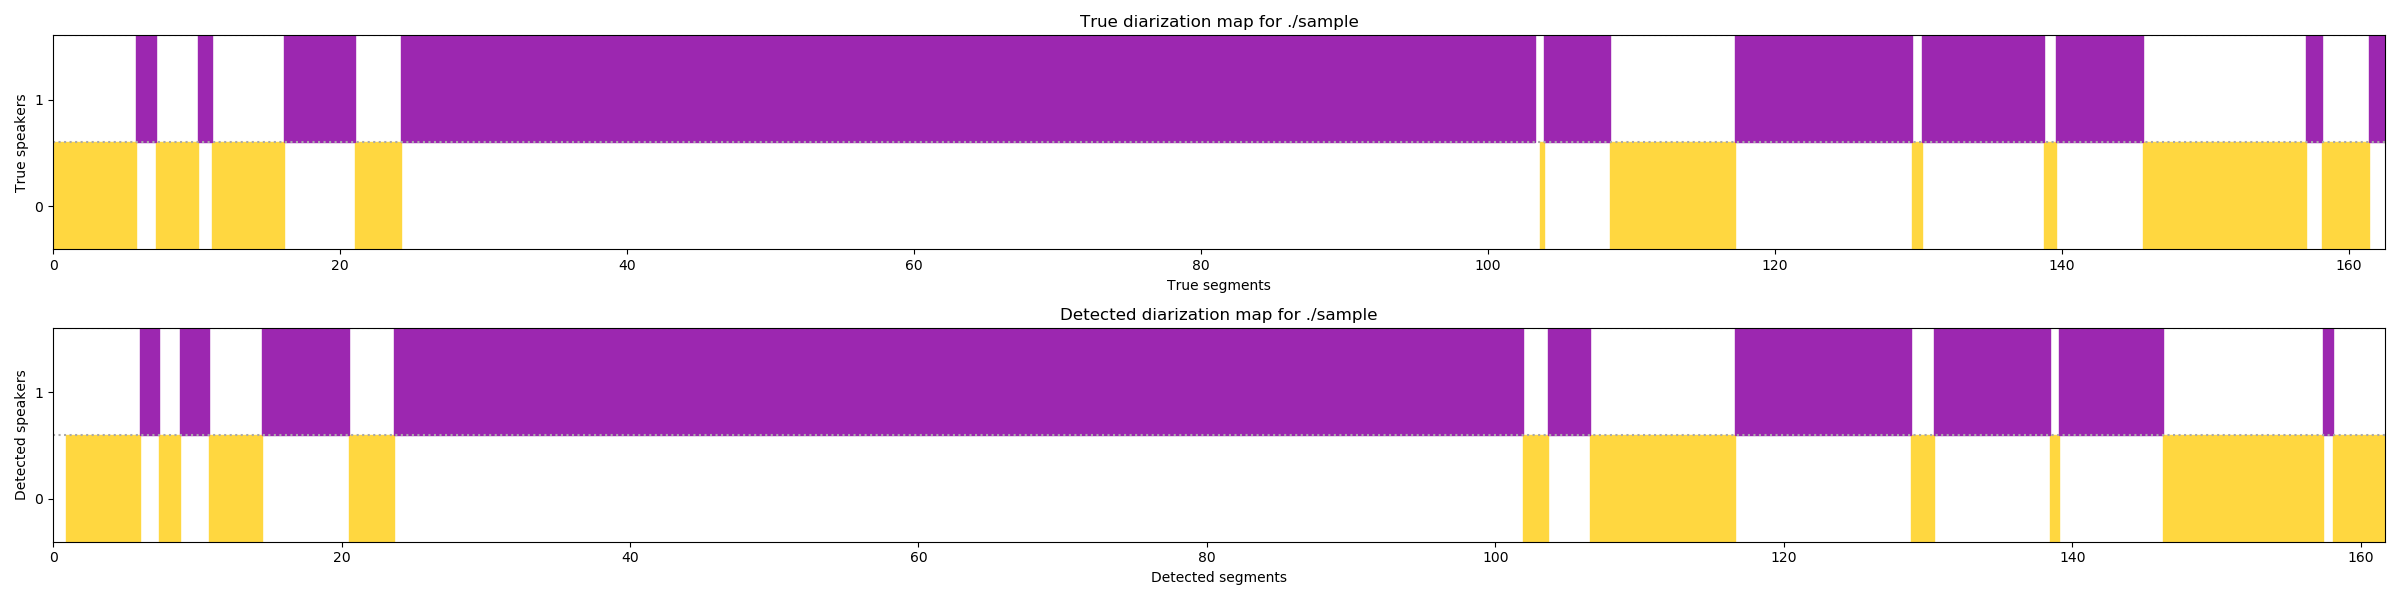
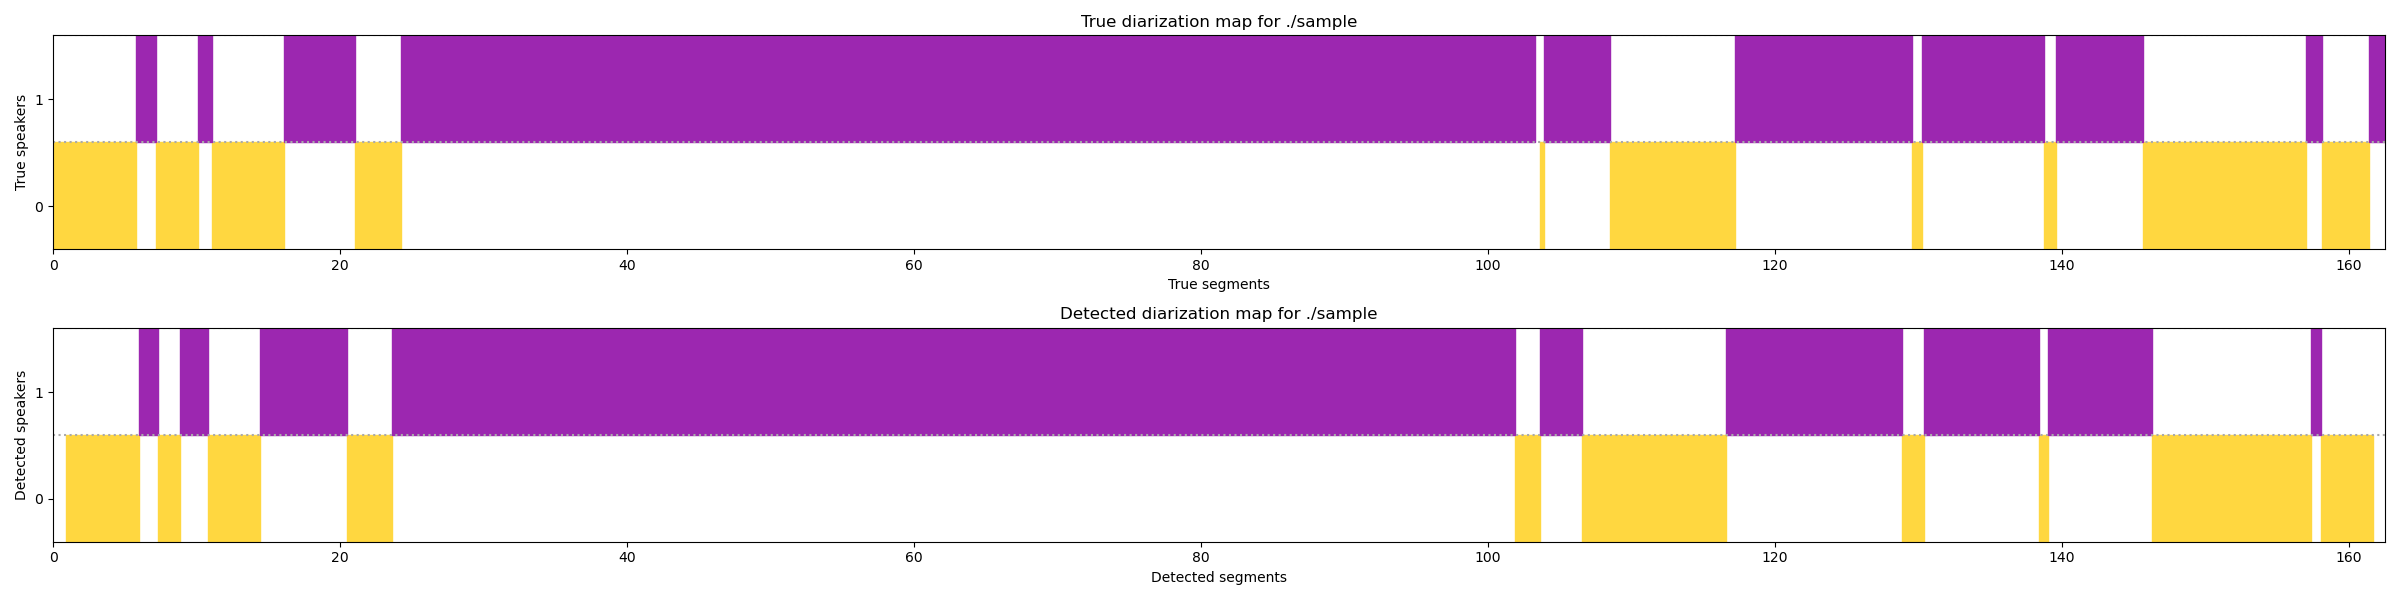
Small reworks

diff --git a/embedding/new_utils.py b/embedding/new_utils.py
@@ -55,6 +55,20 @@ def _beautify_time(time_in_milliseconds):
     return time
 
 
+def _gen_map(intervals):  # interval slices to map table
+    slice_len = [sliced[1] - sliced[0] for sliced in intervals.tolist()]
+    map_table = {}  # vad erased time to origin time, only split points
+    idx = 0
+
+    for i, sliced in enumerate(intervals.tolist()):
+        map_table[idx] = sliced[0]
+        idx += slice_len[i]
+
+    map_table[sum(slice_len)] = intervals[-1, -1]
+
+    return map_table
+
+
 def _path_to_audio(audio_folder):
     for file in os.listdir(audio_folder):
         if file.endswith('.wav'):
@@ -80,23 +94,6 @@ def der(ground_truth_map, result_map):
     der = simpleder.DER(ground_truth_map, result_map)
 
     return round(der, 5)
-
-
-def gen_map(intervals):  # interval slices to map table
-    slice_len = [sliced[1] - sliced[0] for sliced in intervals.tolist()]
-    map_table = {}  # vad erased time to origin time, only split points
-    idx = 0
-
-    for i, sliced in enumerate(intervals.tolist()):
-        map_table[idx] = sliced[0]
-        idx += slice_len[i]
-
-    map_table[sum(slice_len)] = intervals[-1, -1]
-
-    keys = [k for k, _ in map_table.items()]
-    keys.sort()
-
-    return map_table, keys
 
 
 def generate_embeddings(model, specs):
@@ -150,10 +147,13 @@ def ground_truth_map(audio_folder):
     return ground_truth_map
 
 
-def result_map(map_table, keys, predicted_labels):
+def result_map(intervals, predicted_labels):
     time_spec_rate = 1000 * (1.0 / consts.slide_window_params.embedding_per_second) * (
             1.0 - consts.slide_window_params.overlap_rate)  # speaker embedding every ?ms
     speaker_slice = _arrange_result(predicted_labels, time_spec_rate)
+
+    map_table = _gen_map(intervals)
+    keys = [*map_table]
 
     # Time map to origin wav (contains mute)
     for speaker, timestamps_list in speaker_slice.items():

diff --git a/diarization.py b/diarization.py
@@ -31,9 +31,8 @@ predicted_labels = cluster_utils.cluster_by_hdbscan(embeddings)
 # Step 8. Read real segments from file.
 ground_truth_map = new_utils.ground_truth_map(consts.audio_folder)
 
-# Step 9. Get result timestamps.
-map_table, keys = new_utils.gen_map(intervals)
-result_map = new_utils.result_map(map_table, keys, predicted_labels)
+# Step 9. Get result segments.
+result_map = new_utils.result_map(intervals, predicted_labels)
 
 # Step 10. Get DER (diarization error rate).
 der = new_utils.der(ground_truth_map, result_map)

diff --git a/embedding/consts.py b/embedding/consts.py
@@ -40,7 +40,7 @@ nn_params.input_dim = (257, None, 1)
 nn_params.num_classes = 5994
 
 nn_params.mode = 'eval'  # 'train'
-nn_params.gpu = '0'
+nn_params.gpu = ''
 nn_params.net = 'resnet34s'  # 'resnet34s' or 'resnet34l'
 nn_params.ghost_cluster = 2
 nn_params.vlad_cluster = 8

diff --git a/README.md b/README.md
@@ -97,9 +97,8 @@ predicted_labels = cluster_utils.cluster_by_hdbscan(embeddings)
 # Step 8. Read real segments from file.
 ground_truth_map = new_utils.ground_truth_map(consts.audio_folder)
 
-# Step 9. Get result timestamps.
-map_table, keys = new_utils.gen_map(intervals)
-result_map = new_utils.result_map(map_table, keys, predicted_labels)
+# Step 9. Get result segments.
+result_map = new_utils.result_map(intervals, predicted_labels)
 
 # Step 10. Get DER (diarization error rate).
 der = new_utils.der(ground_truth_map, result_map)
